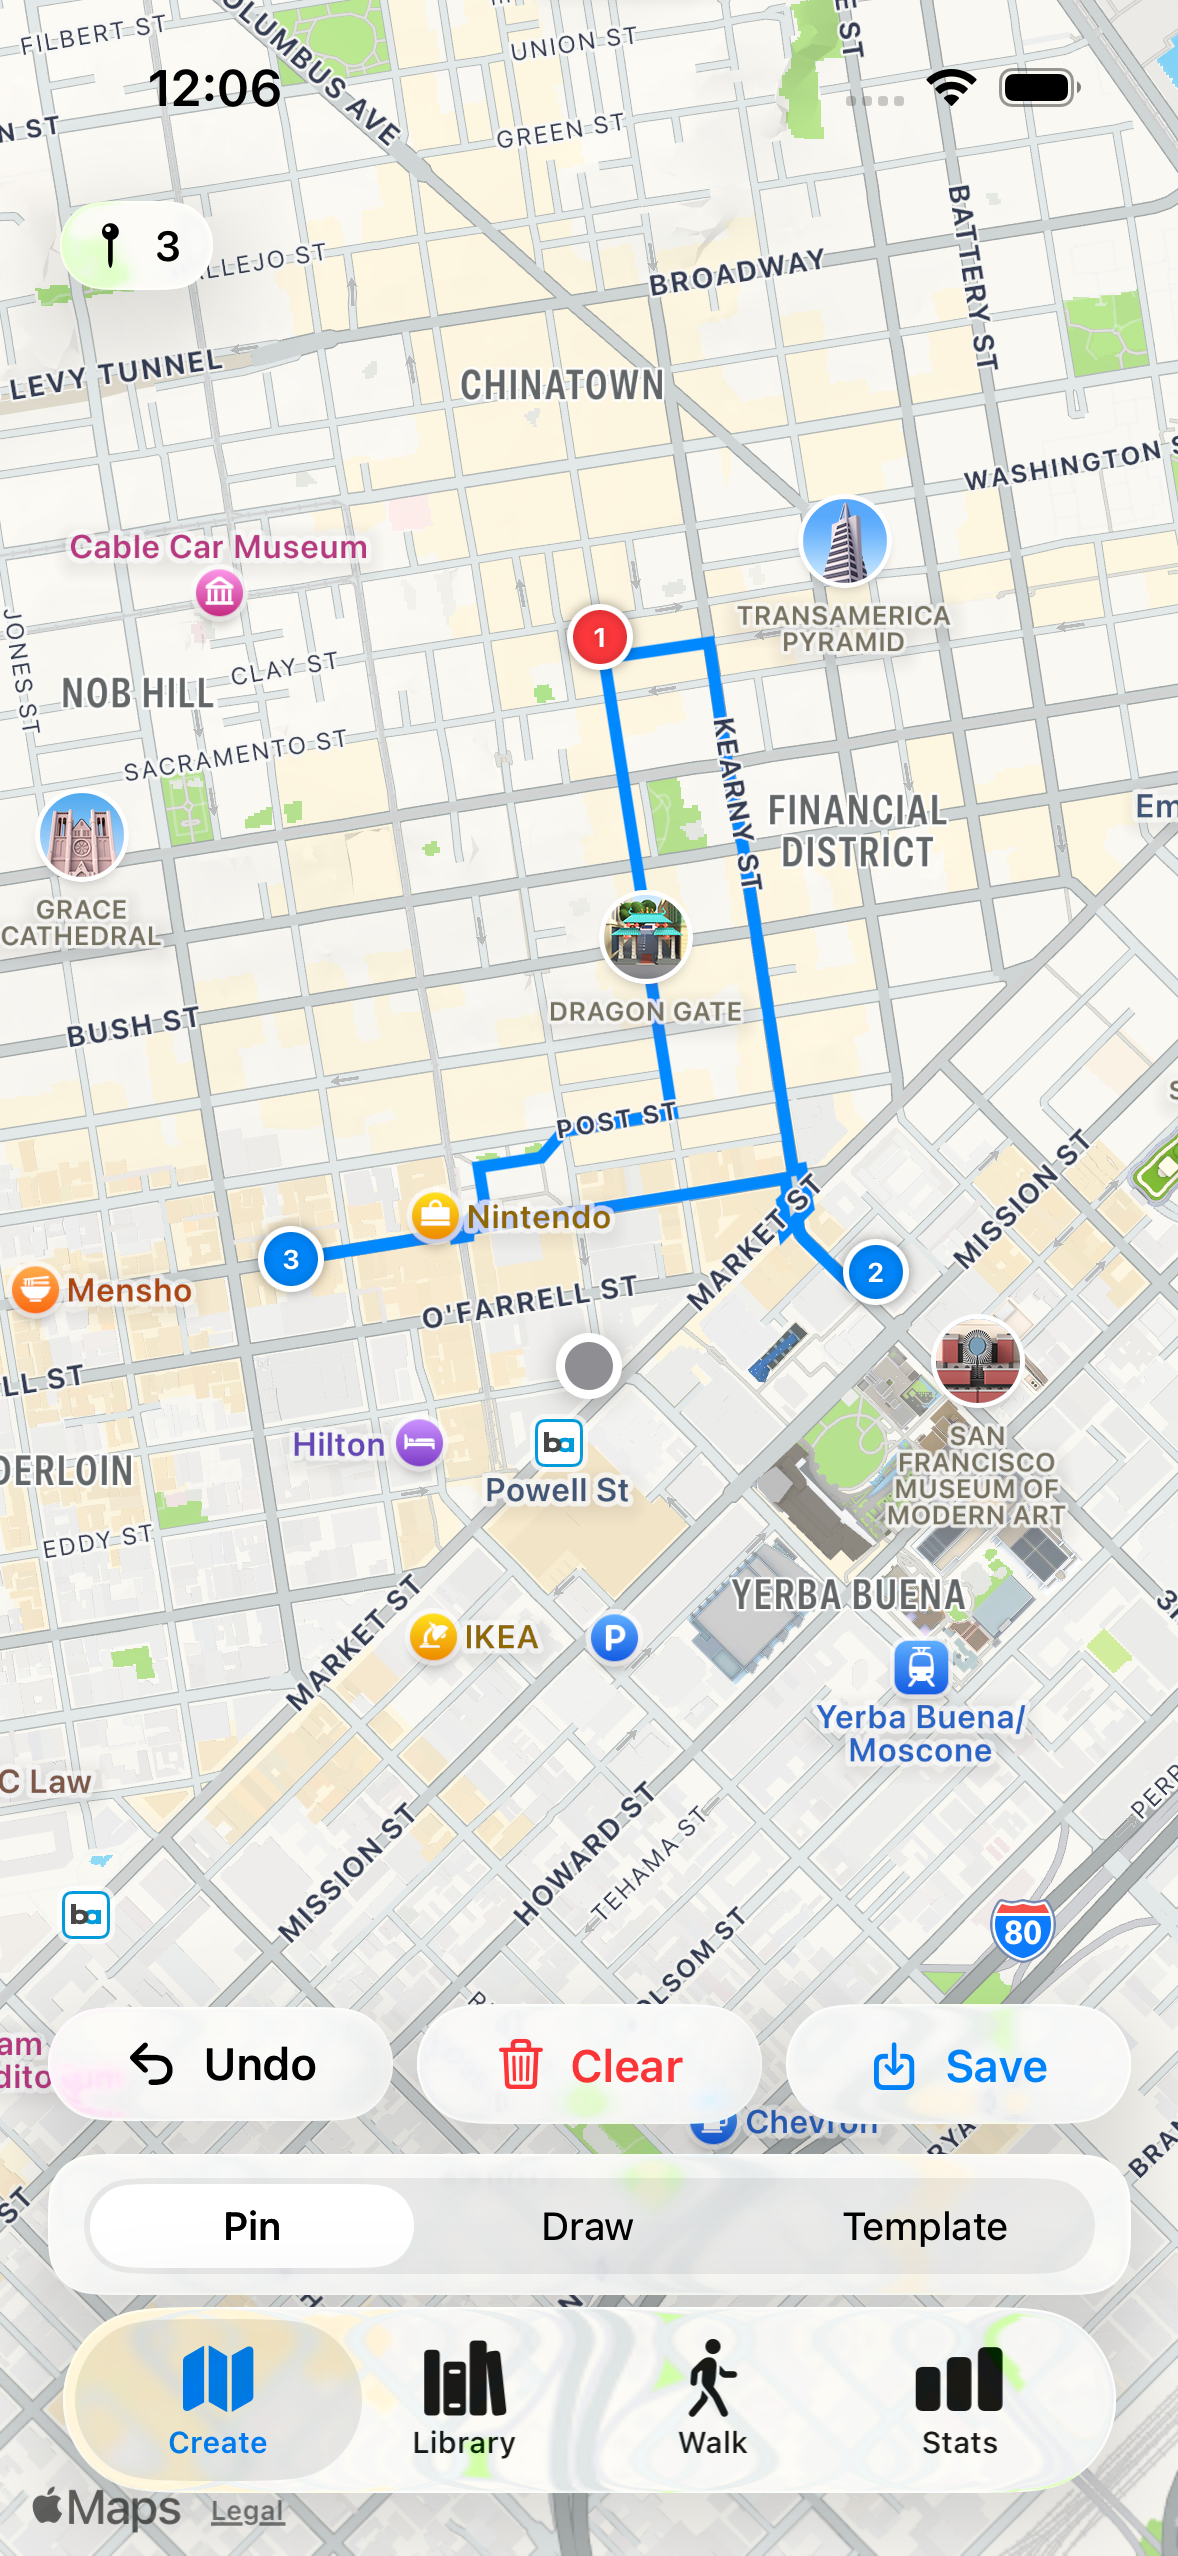
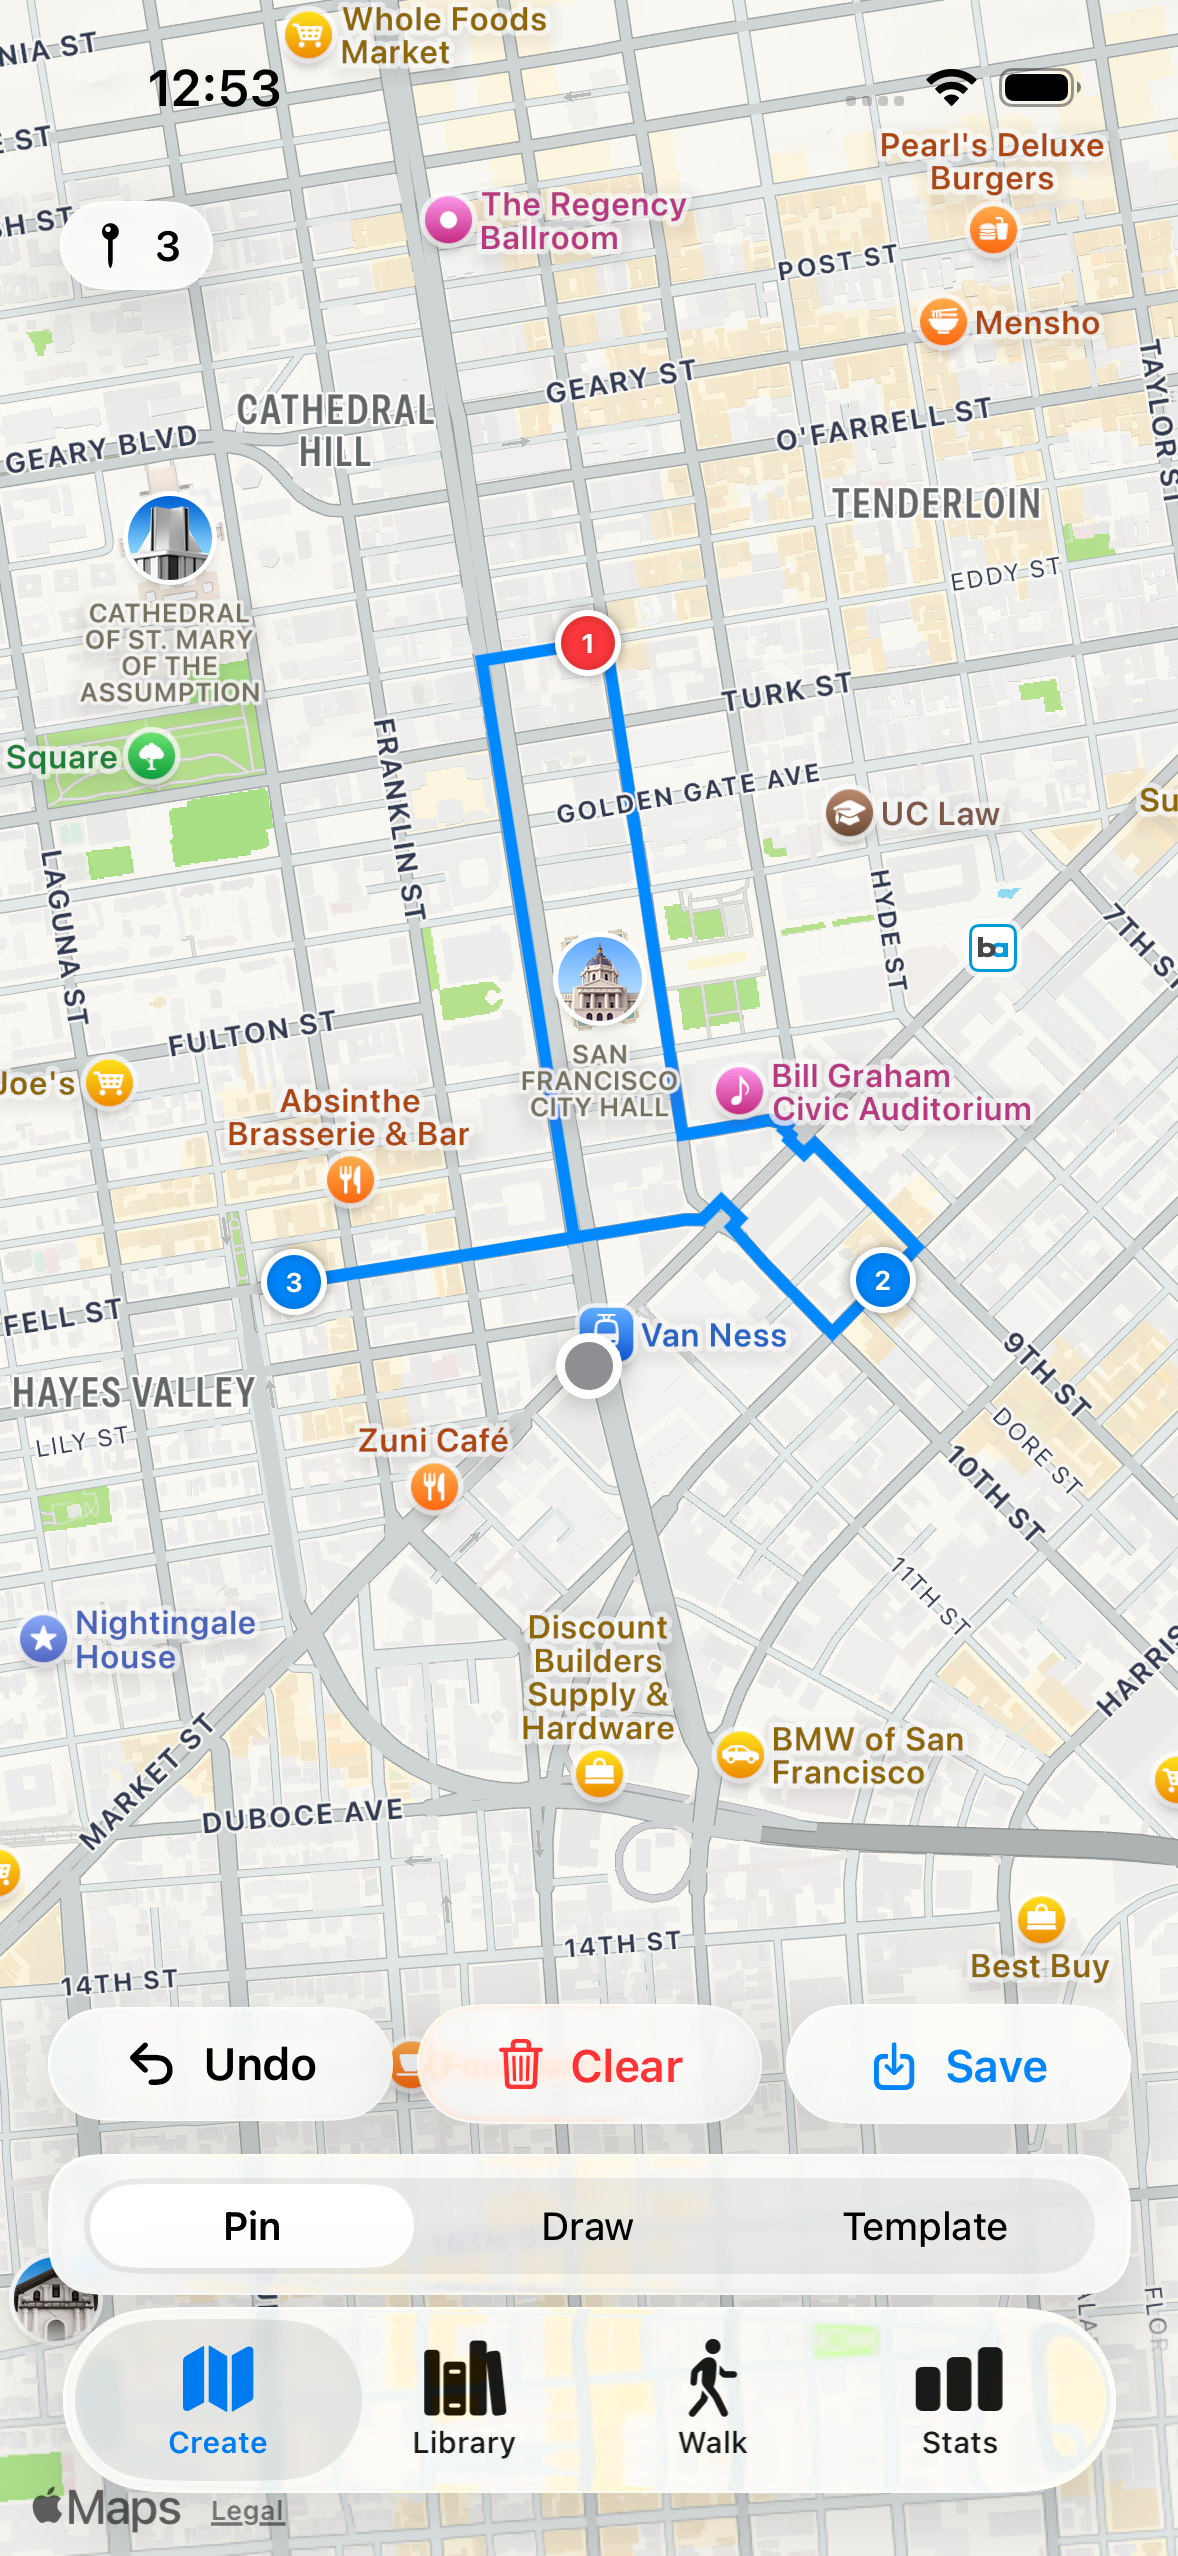
docs: fresh screenshot with current UI, remove Watch mockup, fix signing note

diff --git a/CLAUDE.md b/CLAUDE.md
@@ -7,7 +7,7 @@ iOS + watchOS walking loop app. SwiftUI, MapKit, SwiftData, HealthKit, WatchConn
 - `xcodebuild -scheme WalkableApp -destination 'platform=iOS Simulator,name=iPhone 16' build`
 - `xcodebuild -scheme WalkableWatch -destination 'platform=watchOS Simulator,name=Apple Watch Ultra 3 (49mm)' build`
 - `xcodebuild test -scheme WalkableApp -destination 'platform=iOS Simulator,name=iPhone 16' -only-testing:WalkableTests`
-- `git -c commit.gpgsign=false commit` (1Password GPG signing broken on this machine)
+- GPG signing is configured via 1Password SSH agent. If signing fails, ensure 1Password is unlocked.
 
 ## Architecture
 - MVVM: Views in Views/, ViewModels in ViewModels/, shared logic in WalkableKit package

diff --git a/README.md b/README.md
@@ -17,9 +17,7 @@
 </p>
 
 <p align="center">
-  <img src="assets/screenshot_route.png" alt="Walkable - iPhone route creation" width="280">
-  &nbsp;&nbsp;&nbsp;&nbsp;
-  <img src="assets/screenshot_watch.png" alt="Walkable - Apple Watch" width="160">
+  <img src="assets/screenshot_route.png" alt="Walkable - iPhone route creation" width="300">
 </p>
 
 > **Note:** This app is under active development. Features may change, break, or disappear. Contributions and feedback welcome!
